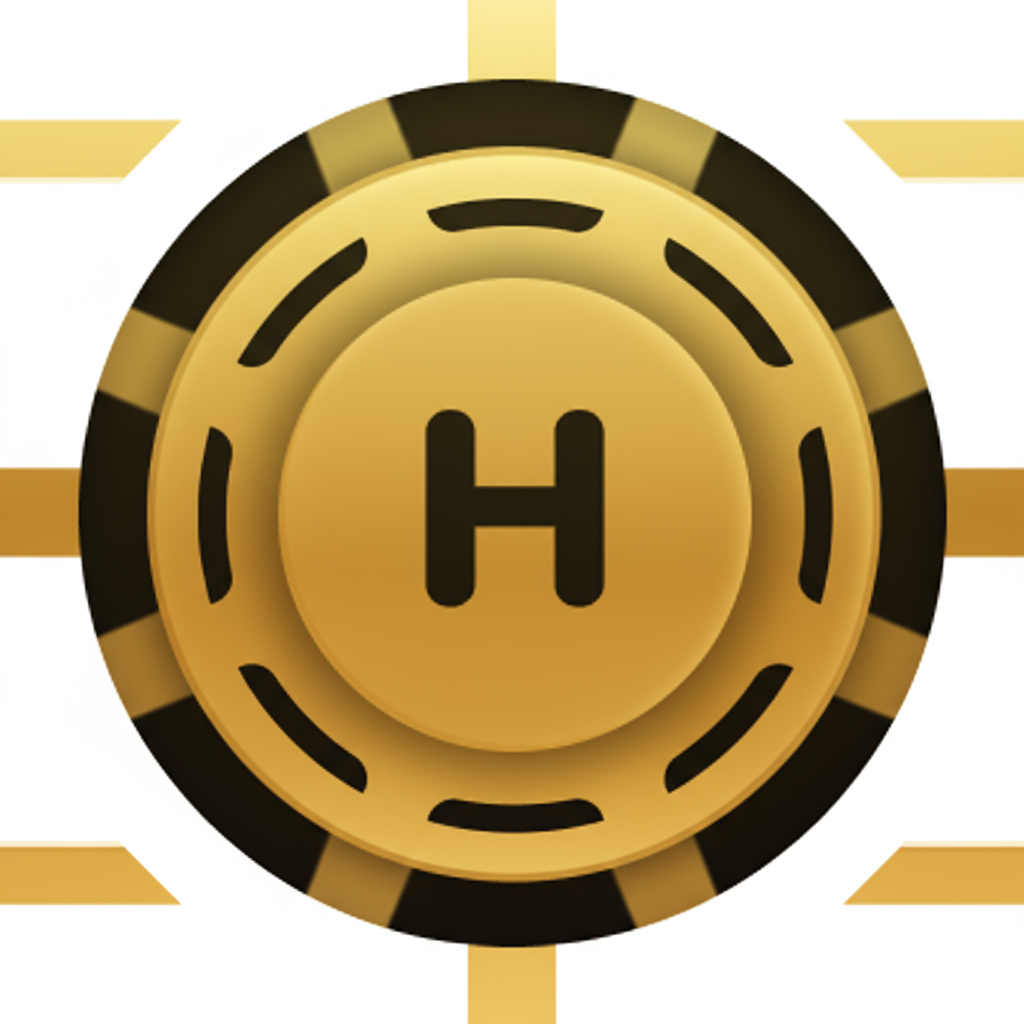
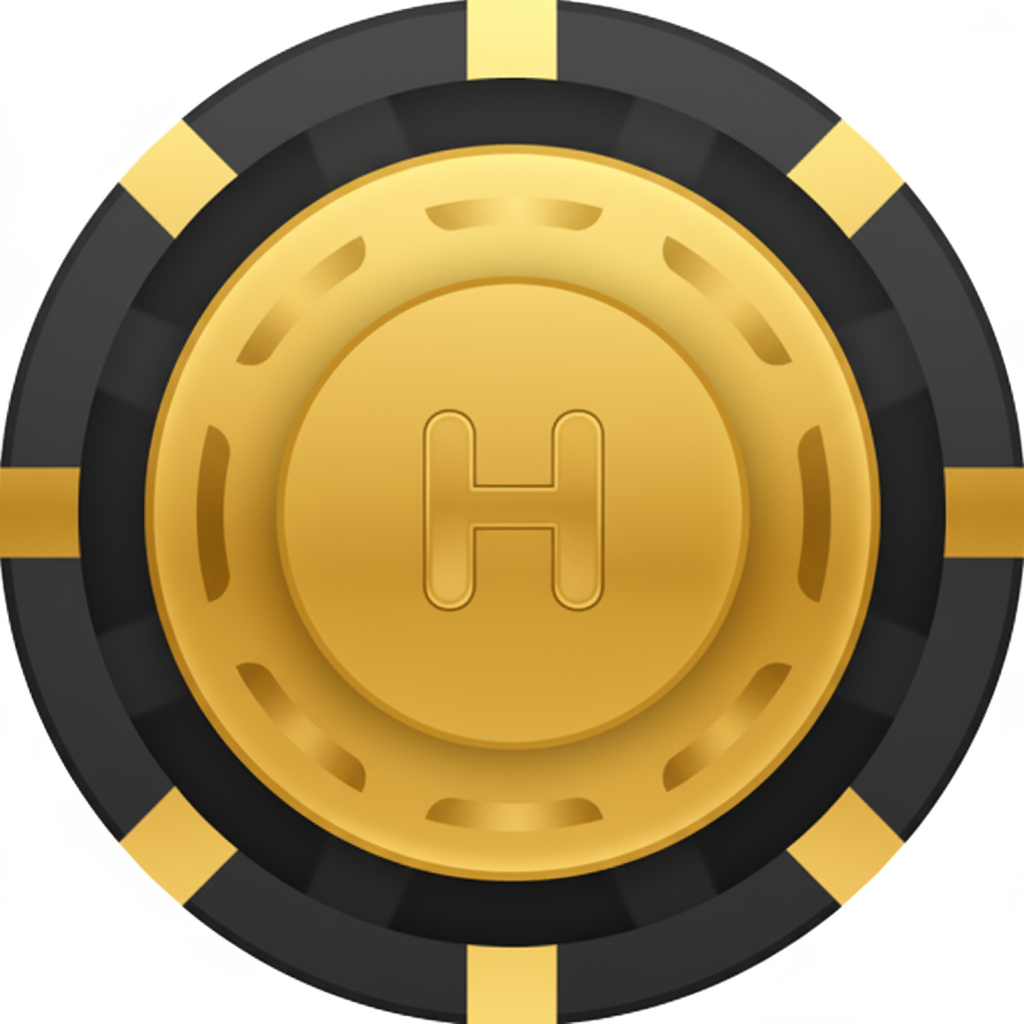
Fix coinflip issues and images
Fixes various issues within the coinflip game functionality and updates coin images to ensure a consistent theme and design between heads and tails.

diff --git a/src/pages/Coinflip.tsx b/src/pages/Coinflip.tsx
@@ -171,19 +171,27 @@ const Coinflip = () => {
   };
 
   const fetchRecentFlips = async () => {
+    // Get unique coinflip game results from transactions
     const { data } = await supabase
       .from("transactions")
-      .select("description")
+      .select("game_id, description")
       .eq("game_type", "coinflip")
-      .in("type", ["win", "loss"])
+      .eq("type", "win")
       .order("created_at", { ascending: false })
       .limit(100);
 
     if (data) {
-      const flips = data.map(t => {
-        const match = t.description?.match(/\((\w+)\)/);
-        return match ? match[1] as 'heads' | 'tails' : null;
-      }).filter((f): f is 'heads' | 'tails' => f !== null);
+      // Extract unique games with their results
+      const seenGames = new Set();
+      const flips = data
+        .map(t => {
+          if (seenGames.has(t.game_id)) return null;
+          seenGames.add(t.game_id);
+          const match = t.description?.match(/\((\w+)\)/);
+          return match ? match[1] as 'heads' | 'tails' : null;
+        })
+        .filter((f): f is 'heads' | 'tails' => f !== null)
+        .slice(0, 100);
       setRecentFlips(flips);
     }
   };
